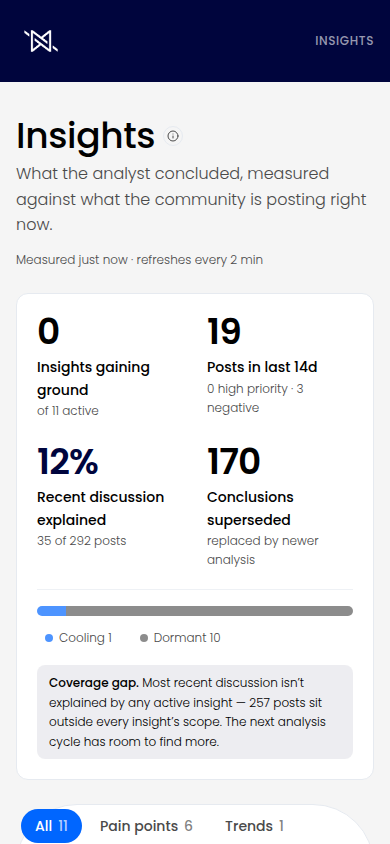
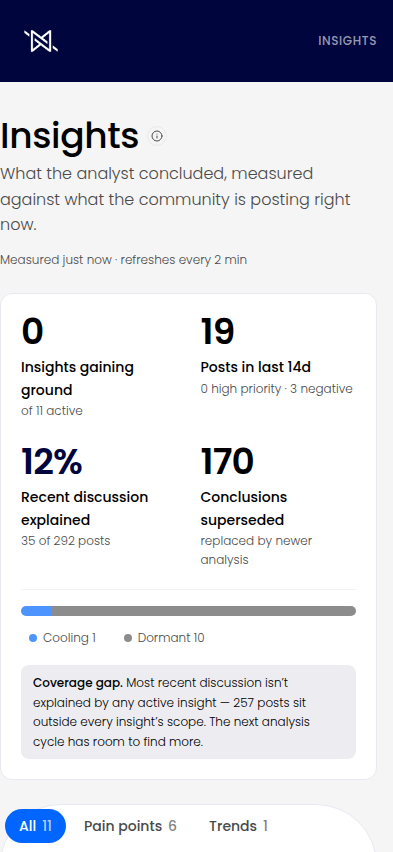
login: password eye toggle, pill removed, realistic iPhone 17 Pro Max frame
- view/hide eye on the password input (accessible aria-label + pressed state)
- remove the 'Community Intelligence' pill entirely (pills now banned globally)
- device frames visible against the dark panel: light laptop bezel + titanium
  iPhone side rails (was near-invisible dark-on-dark)
- phone mockup is now a real iPhone 17 Pro Max: titanium frame, iOS status bar
  (9:41 + signal/wifi/battery), Safari URL bar; fresh 393x852 capture with the
  sidebar closed

diff --git a/app/frontend/src/components/LoginGate.jsx b/app/frontend/src/components/LoginGate.jsx
@@ -31,6 +31,7 @@ export default function LoginGate({ children }) {
   const [busy, setBusy] = useState(false)
   const [error, setError] = useState('')
   const [shake, setShake] = useState(false)
+  const [showPw, setShowPw] = useState(false)
   const [idleMinutes, setIdleMinutes] = useState(30)
   const inputRef = useRef(null)
 
@@ -153,10 +154,7 @@ export default function LoginGate({ children }) {
           <img src={logoHorizontalWhite} alt="Neutrinos" className="h-6 w-auto shrink-0 self-start" />
 
           <div className="mt-5 shrink-0">
-            <span className="inline-flex rounded-full bg-white/10 px-3 py-1 text-[10px] font-medium uppercase tracking-[0.18em] text-celeste ring-1 ring-white/15">
-              Community Intelligence
-            </span>
-            <h1 className="neu-rise mt-3 max-w-[18ch] font-sans text-[1.5rem] font-medium leading-[1.14] tracking-tight text-white xl:text-[1.85rem]">
+            <h1 className="neu-rise max-w-[18ch] font-sans text-[1.5rem] font-medium leading-[1.14] tracking-tight text-white xl:text-[1.85rem]">
               Hear your community before it speaks twice.
             </h1>
             <p
@@ -174,9 +172,9 @@ export default function LoginGate({ children }) {
             style={{ animationDelay: '160ms' }}
           >
             <div className="flex max-h-full min-h-0 items-end justify-center gap-5">
-              {/* Laptop: screen (16:9) + base, whole dashboard visible inside */}
+              {/* Laptop: light bezel so it reads against the dark blue panel */}
               <div className="flex min-h-0 flex-col items-center">
-                <div className="min-h-0 rounded-lg bg-[#0b0f1a] p-2 ring-1 ring-white/10">
+                <div className="min-h-0 rounded-lg bg-white/25 p-2 ring-1 ring-white/40 shadow-[0_20px_50px_-16px_rgba(0,0,0,0.5)]">
                   <img
                     src={shotLaptop}
                     alt="Community Insights dashboard on a laptop"
@@ -186,22 +184,39 @@ export default function LoginGate({ children }) {
                   />
                 </div>
                 {/* laptop base — wider than the screen, like a real laptop */}
-                <div className="h-2.5 w-[112%] shrink-0 rounded-b-[10px] bg-gradient-to-b from-white/20 to-white/[0.08] ring-1 ring-white/10" />
-                <div className="h-1 w-[18%] shrink-0 rounded-b-full bg-white/15" />
+                <div className="h-2.5 w-[112%] shrink-0 rounded-b-[10px] bg-gradient-to-b from-white/45 to-white/25 ring-1 ring-white/30" />
+                <div className="h-1 w-[18%] shrink-0 rounded-b-full bg-white/40" />
               </div>
 
-              {/* Phone frame (9:16) — clean capture, no sidebar */}
+              {/* Phone: iPhone 17 Pro Max frame (titanium) with status bar + Safari chrome */}
               <div className="hidden min-h-0 shrink-0 xl:flex">
-                <div className="min-h-0 rounded-[1.4rem] bg-[#0b0f1a] p-1.5 shadow-[0_20px_50px_-16px_rgba(0,0,0,0.65)] ring-1 ring-white/[0.15]">
-                  <div className="relative min-h-0 overflow-hidden rounded-[1.05rem] bg-white">
-                    <div className="absolute left-1/2 top-1 z-10 h-1 w-6 -translate-x-1/2 rounded-full bg-black/30" />
-                    <img
-                      src={shotPhone}
-                      alt="Community Insights on mobile"
-                      loading="lazy"
-                      decoding="async"
-                      className="block h-auto max-h-[30dvh] w-auto object-contain"
-                    />
+                <div className="flex min-h-0 flex-col overflow-hidden rounded-[2.1rem] bg-gradient-to-b from-[#3a3f4a] to-[#1c2027] p-[3px] shadow-[0_24px_60px_-16px_rgba(0,0,0,0.8)] ring-1 ring-white/25">
+                  {/* titanium side rails */}
+                  <div className="min-h-0 overflow-hidden rounded-[1.95rem] bg-[#0b0f1a]">
+                    <div className="relative flex max-h-[34dvh] flex-col">
+                      {/* iOS status bar */}
+                      <div className="flex shrink-0 items-center justify-between bg-white px-4 pt-1.5 pb-1 text-[8px] font-semibold text-black">
+                        <span className="tabular-nums">9:41</span>
+                        <span className="absolute left-1/2 top-0 h-4 w-16 -translate-x-1/2 rounded-b-[10px] bg-[#0b0f1a]" />
+                        <span className="flex items-center gap-1">
+                          <svg width="12" height="8" viewBox="0 0 18 12" fill="currentColor"><rect x="0" y="8" width="3" height="4" rx="1"/><rect x="5" y="5" width="3" height="7" rx="1"/><rect x="10" y="2" width="3" height="10" rx="1"/><rect x="15" y="0" width="3" height="12" rx="1"/></svg>
+                          <svg width="14" height="8" viewBox="0 0 22 12" fill="none" stroke="currentColor" strokeWidth="1"><rect x="0.5" y="0.5" width="18" height="11" rx="3"/><rect x="2" y="2" width="13" height="8" rx="1.5" fill="currentColor"/><rect x="20" y="4" width="2" height="4" rx="1" fill="currentColor"/></svg>
+                        </span>
+                      </div>
+                      {/* Safari URL bar */}
+                      <div className="flex shrink-0 items-center justify-center gap-1.5 bg-white/95 px-3 pb-1.5 text-[8px] text-black/60">
+                        <svg width="8" height="8" viewBox="0 0 24 24" fill="none" stroke="currentColor" strokeWidth="2.5"><rect x="4" y="10" width="16" height="11" rx="2"/><path d="M8 10V7a4 4 0 0 1 8 0v3"/></svg>
+                        <span className="truncate">comindash.jitinnair.com</span>
+                      </div>
+                      {/* page content */}
+                      <img
+                        src={shotPhone}
+                        alt="Community Insights on an iPhone"
+                        loading="lazy"
+                        decoding="async"
+                        className="block h-auto max-h-[26dvh] w-auto object-contain"
+                      />
+                    </div>
                   </div>
                 </div>
               </div>
@@ -255,20 +270,43 @@ export default function LoginGate({ children }) {
             <label htmlFor="pw" className="mb-2 block text-sm font-medium text-black">
               Password
             </label>
-            <input
-              id="pw"
-              ref={inputRef}
-              type="password"
-              autoComplete="current-password"
-              value={password}
-              onChange={(e) => setPassword(e.target.value)}
-              disabled={busy}
-              className={`w-full rounded-xl border bg-white px-4 py-3 text-black outline-none transition-[border-color,box-shadow] duration-300 focus:border-blue focus:ring-4 focus:ring-blue/15 disabled:opacity-60 ${
-                error ? 'border-red-300' : 'border-line'
-              }`}
-              placeholder="••••••••"
-              style={{ animationName: shake ? 'shake' : undefined }}
-            />
+            <div className="relative">
+              <input
+                id="pw"
+                ref={inputRef}
+                type={showPw ? 'text' : 'password'}
+                autoComplete="current-password"
+                value={password}
+                onChange={(e) => setPassword(e.target.value)}
+                disabled={busy}
+                className={`w-full rounded-xl border bg-white px-4 py-3 pr-12 text-black outline-none transition-[border-color,box-shadow] duration-300 focus:border-blue focus:ring-4 focus:ring-blue/15 disabled:opacity-60 ${
+                  error ? 'border-red-300' : 'border-line'
+                }`}
+                placeholder="••••••••"
+                style={{ animationName: shake ? 'shake' : undefined }}
+              />
+              <button
+                type="button"
+                onClick={() => setShowPw((v) => !v)}
+                aria-label={showPw ? 'Hide password' : 'Show password'}
+                aria-pressed={showPw}
+                className="absolute inset-y-0 right-0 grid w-11 place-items-center text-muted transition-colors hover:text-black"
+                tabIndex={-1}
+              >
+                {showPw ? (
+                  <svg width="18" height="18" viewBox="0 0 24 24" fill="none" stroke="currentColor" strokeWidth="1.8" strokeLinecap="round" strokeLinejoin="round">
+                    <path d="M3 3l18 18" />
+                    <path d="M10.6 10.6a2 2 0 0 0 2.8 2.8" />
+                    <path d="M9.4 5.2A10.5 10.5 0 0 1 12 5c5 0 9 4.5 10 7-.4 1-1.2 2.2-2.3 3.3M6.2 6.2C3.9 7.7 2.5 10 2 12c1 2.5 5 7 10 7 1.2 0 2.3-.3 3.3-.7" />
+                  </svg>
+                ) : (
+                  <svg width="18" height="18" viewBox="0 0 24 24" fill="none" stroke="currentColor" strokeWidth="1.8" strokeLinecap="round" strokeLinejoin="round">
+                    <path d="M2 12s3.5-7 10-7 10 7 10 7-3.5 7-10 7-10-7-10-7Z" />
+                    <circle cx="12" cy="12" r="3" />
+                  </svg>
+                )}
+              </button>
+            </div>
 
             {error && (
               <p role="alert" className="mt-3 text-sm font-medium text-red-600">
